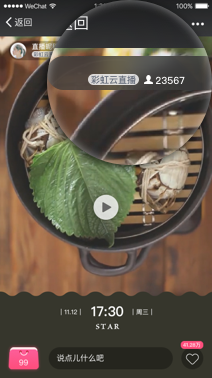
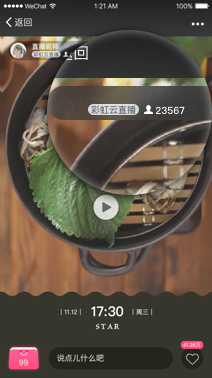
cx

diff --git a/src/views/live/data.vue b/src/views/live/data.vue
@@ -1,33 +1,33 @@
 <template>
 	<div class="container">
-		<div class="overview-box">
-			<h2>直播概况</h2>
-			<div class="overview-wrapper">
-				<div>
-					<p>观看人次（PV）：1560人</p>
-					<p>直播时长：65分钟</p>
-				</div>
-				<div>
-					<p>用户量（UV）：1000人</p>
-					<p>新增粉丝数：1234人</p>
-				</div>
-				<div>
-					<p>最高在线人数：1000人</p>
-					<p>新增订单数：345笔</p>
-				</div>
-				<div>
-					<p>观看时长：65分钟</p>
-					<p>成交金额：¥ 23456.78</p>
-				</div>
+		<div class="container-wrap">
+			<div class="overview-box">
+				<Card :bordered="false" dis-hover class="border-r">
+					<p slot="title" class="title">直播概况</p>
+					<div class="content">
+							<p>观看人次（PV）：<span>1560人</span></p>
+							<p>用户量（UV）：<span>1000人</span></p>
+							<p>直播时长：<span>65分钟</span></p>
+							<p>观看时长：<span>65分钟</span></p>
+					</div>
+				</Card>
 			</div>
-		</div>
-		<div class="online-box">
-			<h2>在线人数分布曲线</h2>
-			<highcharts :options="count_data" ref="highcharts"></highcharts>
-		</div>
-		<div class="territory-box">
-			<h2>观众地域分布</h2>
-			<highmaps :options="territory_data"></highmaps>
+			<div class="overview-box">
+				<Card :bordered="false" dis-hover class="border-r">
+					<p slot="title" class="title">在线人数分布曲线</p>
+					<div>
+						<highcharts :options="count_data" ref="highcharts"></highcharts>
+					</div>
+				</Card>
+			</div>
+			<div class="overview-box">
+				<Card :bordered="false" dis-hover class="border-r">
+					<p slot="title" class="title">观众地域分布</p>
+					<div>
+						<highmaps :options="territory_data"></highmaps>
+					</div>
+				</Card>
+			</div>
 		</div>
 	</div>
 </template>
@@ -159,27 +159,5 @@ export default {
 }
 </script>
 <style scoped lang="less">
-.container {
-	padding: 30px;
-	h2 {
-		font-size: 12px;
-		color: #333;
-		background-color: #f7f8fa;
-		padding: 4px 16px;
-	}
-	.overview-wrapper {
-		padding: 0 16px;
-		display: flex;
-		justify-content: space-between;
-		p {
-			color: #666;
-		}
-	}
-	.online-box {
-		margin-top: 30px;
-	}
-	.territory-box {
-		margin-top: 30px;
-	}
-}
+	@import "../../assets/styles/views/live/data.less";
 </style>

diff --git a/src/router/video.js b/src/router/video.js
@@ -1,8 +1,8 @@
 /*
 * @Author: William Chan
 * @Date:   2017-03-15 13:20:01
-* @Last Modified by:   William Chan
-* @Last Modified time: 2017-03-19 18:56:20
+* @Last Modified by:   chuxiao
+* @Last Modified time: 2017-03-31 15:19:45
 */
 
 'use strict';
@@ -36,8 +36,8 @@ export default [
 					// '../views/video/list.vue',
 					// '../store/modules/live/find'
 				], (
-					// VideoListComponent,
-					// LiveFindModule,
+					VideoListComponent,
+					LiveFindModule,
 				) => {
 					// registerModule('live_find', LiveFindModule.default);
 					// resolve(VideoListComponent);

diff --git a/src/assets/styles/views/live/data.less b/src/assets/styles/views/live/data.less
@@ -1,0 +1,36 @@
+.container {
+	.container-wrap{
+		padding: 45px 50px;
+		background: #f2f3f7;
+	}
+}
+.overview-box{
+	margin-bottom: 27px;
+	&:last-child{
+		margin-bottom: 0px;
+	}
+	.border-r{
+		border-radius: 8px;
+	}
+	.title{
+		&:before{
+			content: "";
+			margin-right: 10px;
+			display: inline-block;
+			width: 10px;
+			height: 10px;
+			text-align: middle;
+			background-color: #31bedb;
+			border-radius:50%;
+		}
+	}
+	.content{
+		display: flex;
+		justify-content: space-between;
+		span{
+			color:#464c5b;
+			font-weight: 700;
+		}
+	}
+}
+

diff --git a/src/views/live/detail-setting.vue b/src/views/live/detail-setting.vue
@@ -23,7 +23,7 @@
 				</iForm>
 				<div class="iPhone-bg">
 					<div class="iPhone-view">
-						<!-- <h2 class="head">{{ live.name }}</h2> -->
+						<h2 class="head">{{ live.name }}</h2>
 						<!-- 放大镜 -->
 						<div class="magnifier">
 							<h3 class="nickName">{{ form.nickName }}</h3>

diff --git a/src/assets/styles/views/live/detail.less b/src/assets/styles/views/live/detail.less
@@ -155,7 +155,7 @@ img {
 				.magnifier {
 					text-align:left;
 					position: absolute;
-					top: 0px;
+					top: 30px;
 					left: 47px;
 					width: 165px;
 					height: 165px;
